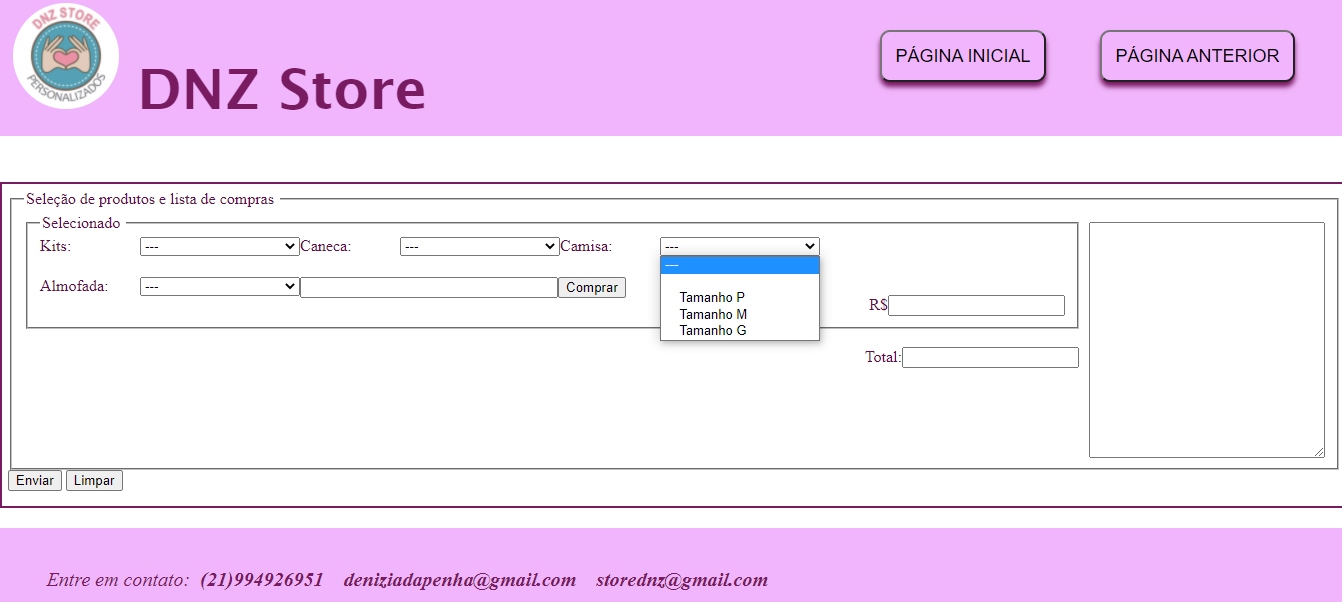
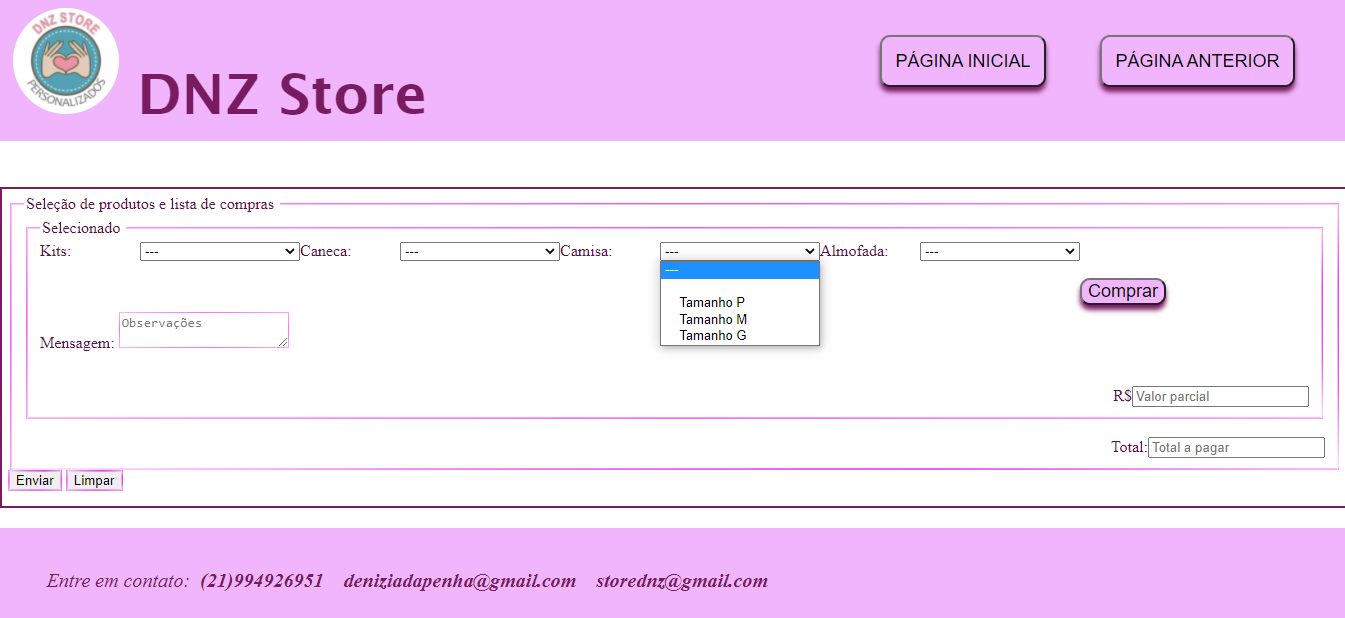
Atualizações: readme e form
Mudei as bordas e o formato do formulário, acrescentei descrição interna aos widgets necessários e atualizei o readme.

diff --git a/Site/quartapagina.html b/Site/quartapagina.html
@@ -21,13 +21,14 @@
     <section>
         <div class="divcompras">
             <form method="POST" action="mailto:storednz@gmail.com">
-                <fieldset>
+                <fieldset class="mensagemform">
                     <legend>Seleção de produtos e lista de compras&nbsp;</legend>
-                    <textarea class="listacompras"
-                    name="listapedidos" readonly></textarea>
-                    <fieldset>
+                    
+                    <fieldset class="mensagemform">
+
                         <!--Local para selecionar os produtos-->
                         <legend>Selecionado&nbsp;</legend>
+
                         <label class="colLabSelProd">Kits:
                             <select name="selProduto" class="colSelProd">
                                 <option>---</option>
@@ -39,6 +40,7 @@
                                 </optgroup>
                             </select>
                         </label>
+
                         <label class="colLabSelProd">Caneca:
                             <select name="selProduto" class="colSelProd">
                                 <option>---</option>
@@ -48,6 +50,7 @@
                                 </optgroup>
                             </select>
                         </label>
+
                         <label class="colLabSelProd">Camisa:
                             <select name="selProduto" class="colSelProd">
                                 <option>---</option>
@@ -58,6 +61,7 @@
                                 </optgroup>
                             </select>
                         </label>
+
                         <label class="colLabSelProd">Almofada:
                             <select name="selProduto" class="colSelProd">
                                 <option>---</option>
@@ -68,19 +72,33 @@
                                 </optgroup>
                             </select>
                         </label>
-                        <!--Local do desconto-->
-                        <input class="linhaProdSel" type="text" name="TXTdesc" id="txtDesc" readonly/>
+
                         <!--Botão comprar-->
+                        <br/>
+                        <br/>
                         <input class="elemEsq" type="button" value="Comprar"/>
+
+                        <!--Espaço para mensagem-->
+                        <br/>
+                        <p>
+                        <div>
+                            <label for="msg">Mensagem:</label>
+                            <textarea id="msg" placeholder="Observações" class="mensagemform"></textarea>
+                        </div>   
+                        </p>                 
+                        
                         <!--Local Preço-->
-                        <label class="elemDir" for="TXTPreco"><br/>R$<input type="text" name="TXTPreco" readonly id="TXTPreco" class="inpMedio"/></label>
+                        <label class="elemDir" for="TXTPreco"><br/>R$<input type="text" name="TXTPreco" readonly id="TXTPreco" class="inpMedio" placeholder="Valor parcial"/></label>
+                        
                     </fieldset>
+                    
                     <!--Local Preço Total-->
-                    <label class="elemDir" for="TXTTotal"><br/>Total:<input type="text" name="TXTTotal" readonly id="TXTTotal" class="inpMedio"/></label>
+                    <label class="elemDir" for="TXTTotal"><br/>Total:<input type="text" name="TXTTotal" readonly id="TXTTotal" class="inpMedio" placeholder="Total a pagar"/></label>
+
                 </fieldset>
-                <div class="botoes">
-                    <input type="submit" value="Enviar"/>
-                    <input type="reset" value="Limpar"/>
+                <div>
+                    <input type="submit" value="Enviar" class="mensagemform"/>
+                    <input type="reset" value="Limpar" class="mensagemform"/>
                 </div>
             </form>
         </div>

diff --git a/Site/paginainicial.html b/Site/paginainicial.html
@@ -45,13 +45,10 @@
         </div>    
     </section>    
     <article id="in"><!--article da esquerda-->
-        <p class="info">Artigos de festa, personalizados, sublimações, doces e artigos artesanais em geral. Tudo feito com muito carinho e do seu jeito. Veja as coisas lindas que já foram feitas, escolha seus produtos e peça o seu orçamento. Acompanhe a DNZ Store nas redes sociais para ficar sempre por dentro das novidades.</p>
-        
+               
         <embed  src="Video/DNZClientes.mp4">
     </article>
-    <article><!--article da direita-->
-        <p class="info2">Lorem ipsum dolor sit amet, consectetur adipisicing elit. Distinctio eveniet eligendi, quisquam ipsa beatae quidem amet voluptas dicta unde harum fugit id mollitia consequuntur laudantium quia, non maxime nam modi.</p>
-    </article>
+    
     <footer>
         <address>
             <p id="contato">Entre em contato:

diff --git a/Site/DNZ.css b/Site/DNZ.css
@@ -68,9 +68,9 @@ h1{
 }
 
 embed{
-    width:657px;
-    height:370px;
-    margin-left: 1%;
+    width:585px;
+    height:330px;
+    margin-left: 4%;
 }
 article#in{
     margin: 0;
@@ -187,7 +187,7 @@ img#logo{
 }
 section#sec1{
     float: right;
-    width: 50%;
+    width: 38%;
     font-family: Arial, Helvetica, sans-serif;
 }
 .texto{
@@ -226,10 +226,18 @@ section#sec1{
 .elemEsq{
     float: left;
     display: block;
+    background-color: #f0b5fc;
+    box-shadow: #791b61 0 5px 5px;
+    border-radius: 10px;
+    font-size: large;
 }
 .elemDir{
     float: right;
     display: block;
+}
+.mensagemform{
+      border-image-source: url("Imagens/BordaparahtmlDNZ.png");
+      border-image-slice: 30;
 }
 
 

diff --git a/README.md b/README.md
@@ -1,3 +1,4 @@
+<<<<<<< Updated upstream
 # DNZ Story
 Objetivo: O site é uma loja virtual .
 <h4 align="center"> 
@@ -12,6 +13,23 @@ Autora: Renata Silva Bezerra
 
 Colaboração: Rafaela Bezerra de Figueiredo
 
+=======
+
+# DNZ Store
+>Objetivo: O site é uma loja virtual .
+<h4 align="center"> 
+	🚧  Projeto 🚀 Em construção...  🚧
+</h4>
+
+### 🛠 Tecnologias
+
+As seguintes ferramentas foram usadas na construção do projeto: HTML5, CSS3 e JS.
+
+Autora: Renata Silva Bezerra 
+
+Colaboração: Rafaela Bezerra de Figueiredo
+
+>>>>>>> Stashed changes
 <img src="Site/Imagens/DNZpagIn.png">
 <img src="Site/Imagens/DNZsegPag.png">
 <img src="Site/Imagens/DNZpagForm.png">
